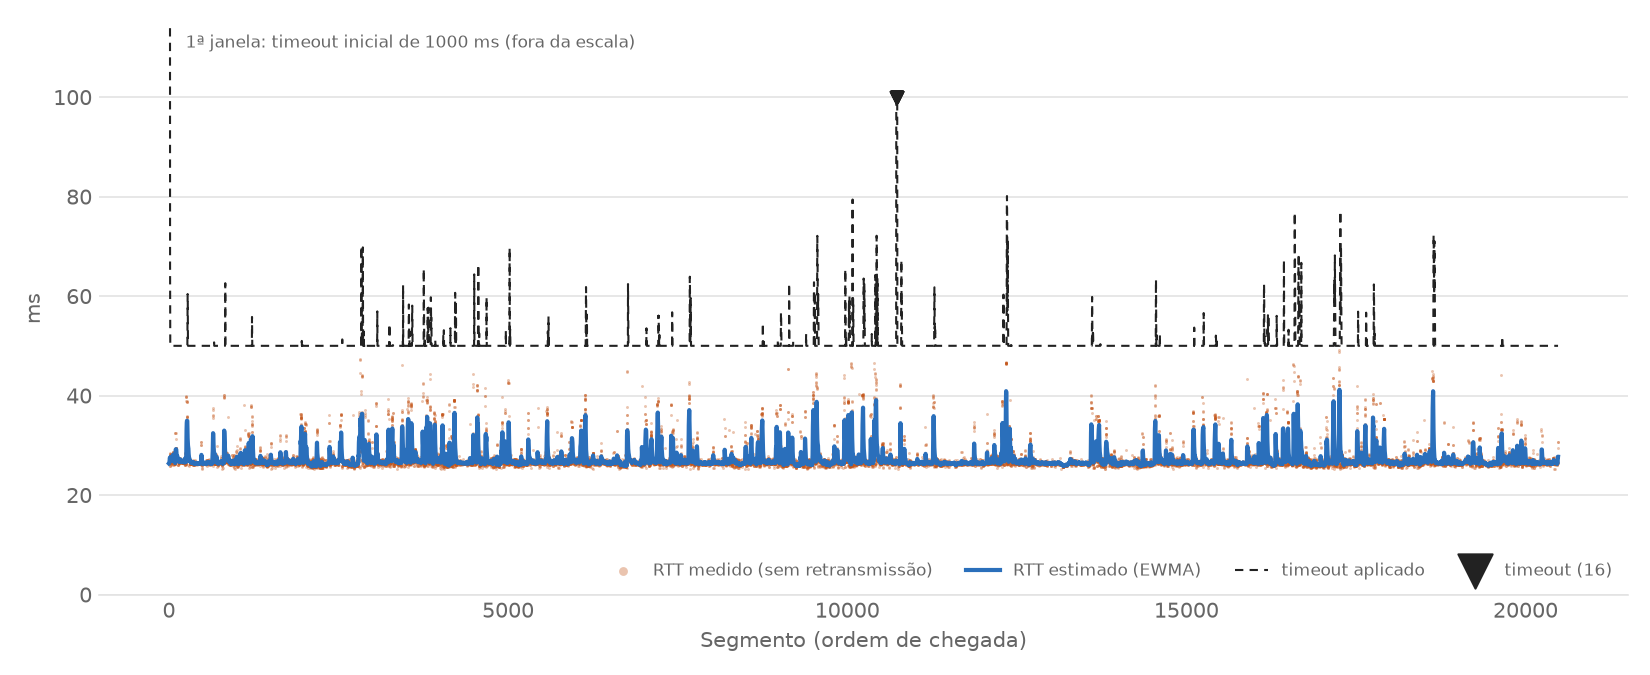
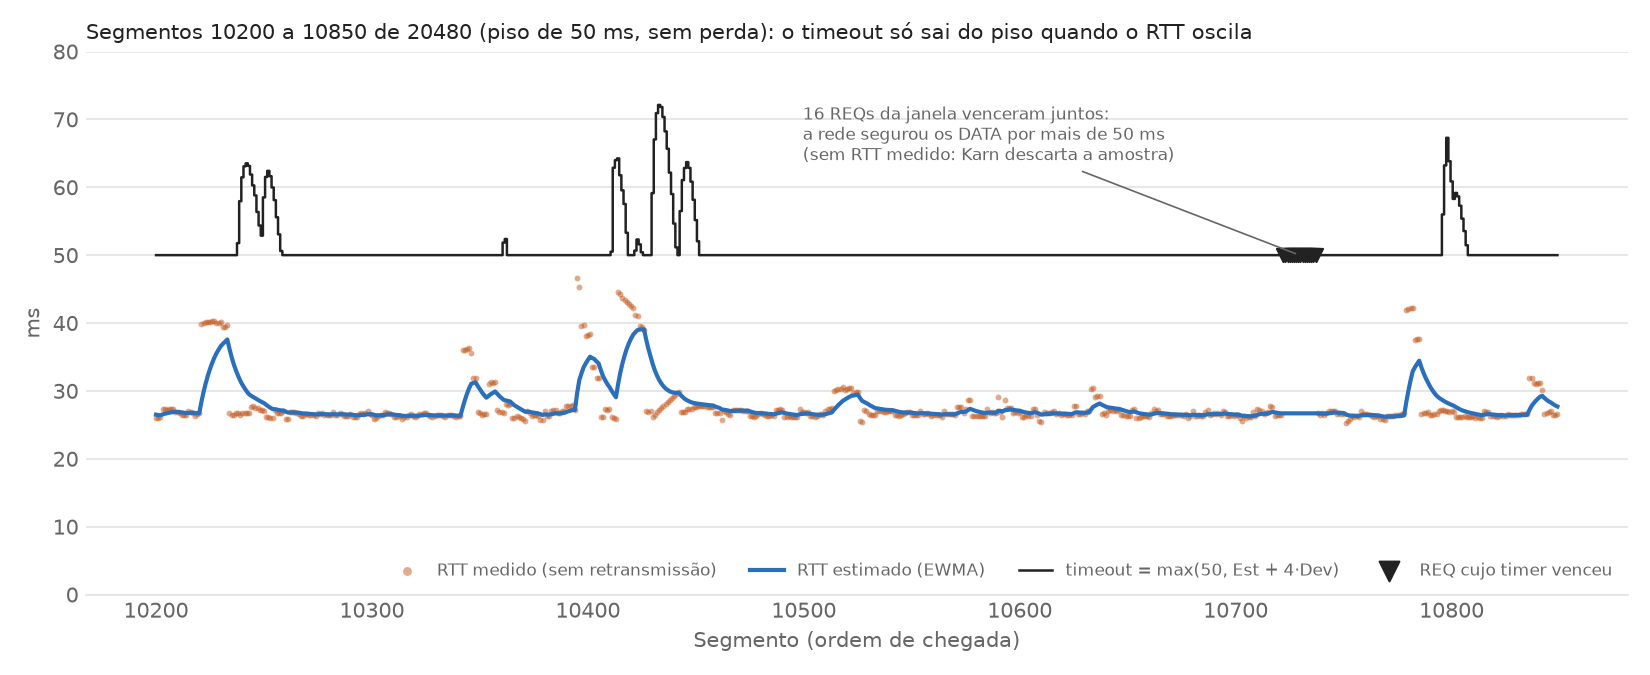
fix: refaz o gráfico do RTT estimado como recorte legível

diff --git a/scripts/graph_scripts/plot_timeout.py b/scripts/graph_scripts/plot_timeout.py
@@ -3,8 +3,8 @@
 
 Uso: python3 scripts/graph_scripts/plot_timeout.py <sem_piso.csv> <com_piso.csv> <pasta_saida>
 
-- rtt_estimado_vs_medido.png: RTT medido, RTT estimado e timeout aplicado
-  na execução com piso.
+- rtt_estimado_vs_medido.png: RTT medido, RTT estimado e timeout do REQ
+  original num trecho de ZOOM_EST segmentos da execução com piso.
 - timeout_adaptativo.png: lado a lado, sem piso e com piso, o timeout do
   primeiro REQ de cada segmento sobre o RTT medido, num trecho de ZOOM
   segmentos; os triângulos marcam os segmentos que estouraram o timer.
@@ -25,6 +25,7 @@ import numpy as np
 BLUE, ORANGE = "#2a6fbb", "#c4561a"
 INK, MUTED, GRID = "#222222", "#666666", "#e3e3e3"
 ZOOM = (5000, 5500)  # trecho do gráfico lado a lado (ordem de chegada)
+ZOOM_EST = (10200, 10850)  # trecho do RTT estimado: picos do DevRTT e a rajada de timeouts
 
 
 def load(path):
@@ -56,26 +57,36 @@ def style(ax, ylabel):
 
 
 def plot_estimate(run, out):
-    x = np.arange(len(run["rtt"]))
+    lo, hi = ZOOM_EST
+    x = np.arange(lo, hi)
+    rtt, est, to = run["rtt"][lo:hi], run["est"][lo:hi], run["to"][lo:hi]
+    # O CSV guarda o timer já dobrado pelo backoff; desfaz para mostrar o
+    # timeout com que o REQ original saiu (o que de fato venceu).
+    first = run["timeout"][lo:hi] / 2.0 ** run["retx"][lo:hi]
+
     fig, ax = plt.subplots(figsize=(11, 4.5))
-    ax.scatter(x, run["rtt"], s=2, color=ORANGE, alpha=0.35, linewidths=0,
+    ax.scatter(x, rtt, s=8, color=ORANGE, alpha=0.5, linewidths=0,
                label="RTT medido (sem retransmissão)")
-    ax.plot(x, run["est"], color=BLUE, linewidth=2, label="RTT estimado (EWMA)")
-    ax.plot(x, run["timeout"], color=INK, linewidth=1,
-            linestyle=(0, (4, 3)), label="timeout aplicado")
-    if run["to"].any():
-        ax.scatter(x[run["to"]], run["timeout"][run["to"]], s=30, marker="v",
-                   color=INK, zorder=3, label=f"timeout ({run['to'].sum()})")
+    ax.plot(x, est, color=BLUE, linewidth=2, label="RTT estimado (EWMA)")
+    ax.step(x, first, where="mid", color=INK, linewidth=1.2,
+            label="timeout = max(50, Est + 4·Dev)")
+    ax.scatter(x[to], first[to], s=40, marker="v", color=INK, zorder=3,
+               label="REQ cujo timer venceu")
     style(ax, "ms")
-    # A primeira janela sai com o timeout inicial (--timeout), antes de
-    # qualquer amostra; ela fica fora da escala para não achatar o resto.
-    t = run["timeout"]
-    ax.set_ylim(0, np.nanmax(t[t < t[0]]) * 1.15)
-    ax.annotate(f"1ª janela: timeout inicial de {t[0]:.0f} ms (fora da escala)",
-                xy=(0, ax.get_ylim()[1]), xytext=(8, -12),
-                textcoords="offset points", fontsize=8, color=MUTED)
+    ax.set_ylim(0, 80)
+    ax.set_title(f"Segmentos {lo} a {hi} de {len(run['rtt'])} (piso de 50 ms, "
+                 "sem perda): o timeout só sai do piso quando o RTT oscila",
+                 color=INK, fontsize=10, loc="left")
+    if to.any():
+        i = x[to]
+        ax.annotate(f"{to.sum()} REQs da janela venceram juntos:\n"
+                    "a rede segurou os DATA por mais de 50 ms\n"
+                    "(sem RTT medido: Karn descarta a amostra)",
+                    xy=(i.mean(), 50), xytext=(i.mean() - 230, 64),
+                    fontsize=8, color=MUTED,
+                    arrowprops=dict(arrowstyle="-", color=MUTED, lw=0.8))
     ax.legend(frameon=False, fontsize=8, labelcolor=MUTED, loc="lower right",
-              ncol=4, markerscale=3)
+              ncol=4, markerscale=1.5)
     fig.tight_layout()
     fig.savefig(out, dpi=150)
     plt.close(fig)
